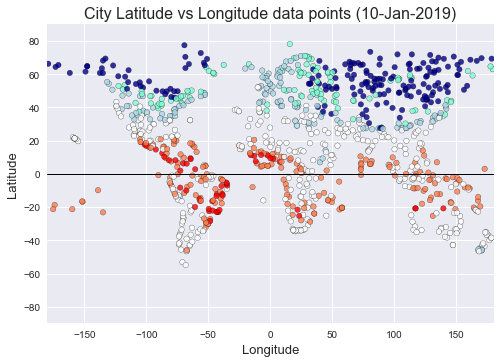
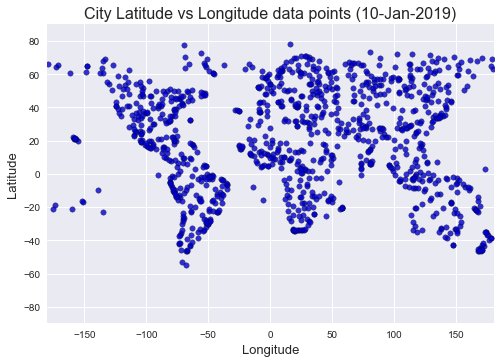
Renamed image because of GITHUB cache // added code to load the csv file.. this is to avoid calling the API again when you want to get the charts again

diff --git a/README.md b/README.md
@@ -11,7 +11,7 @@ Python script to visualize the weather of 500+ cities across the world of varyin
 - Click here to see the dataset generated: [weather_data.csv](output/weather_data.csv)
 
 
-![00_Latitude_vs_Longitude_data_points](output/00_Latitude_vs_Longitude_data_points.png)
+![00_Latitude_vs_Longitude_data_points](output/00_Latitude_vs_Longitude_data_points_v2.png)
 
 ## Conclusions
 
